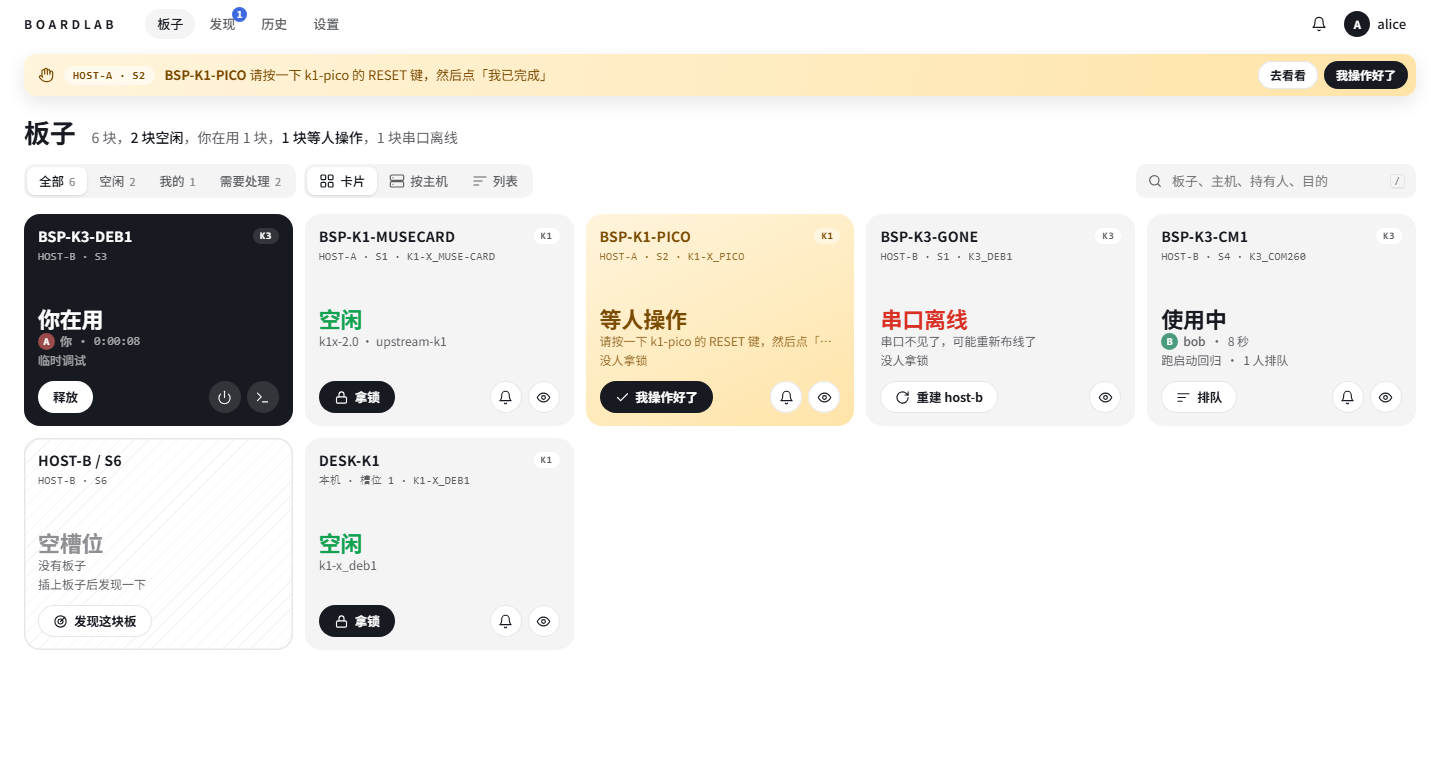
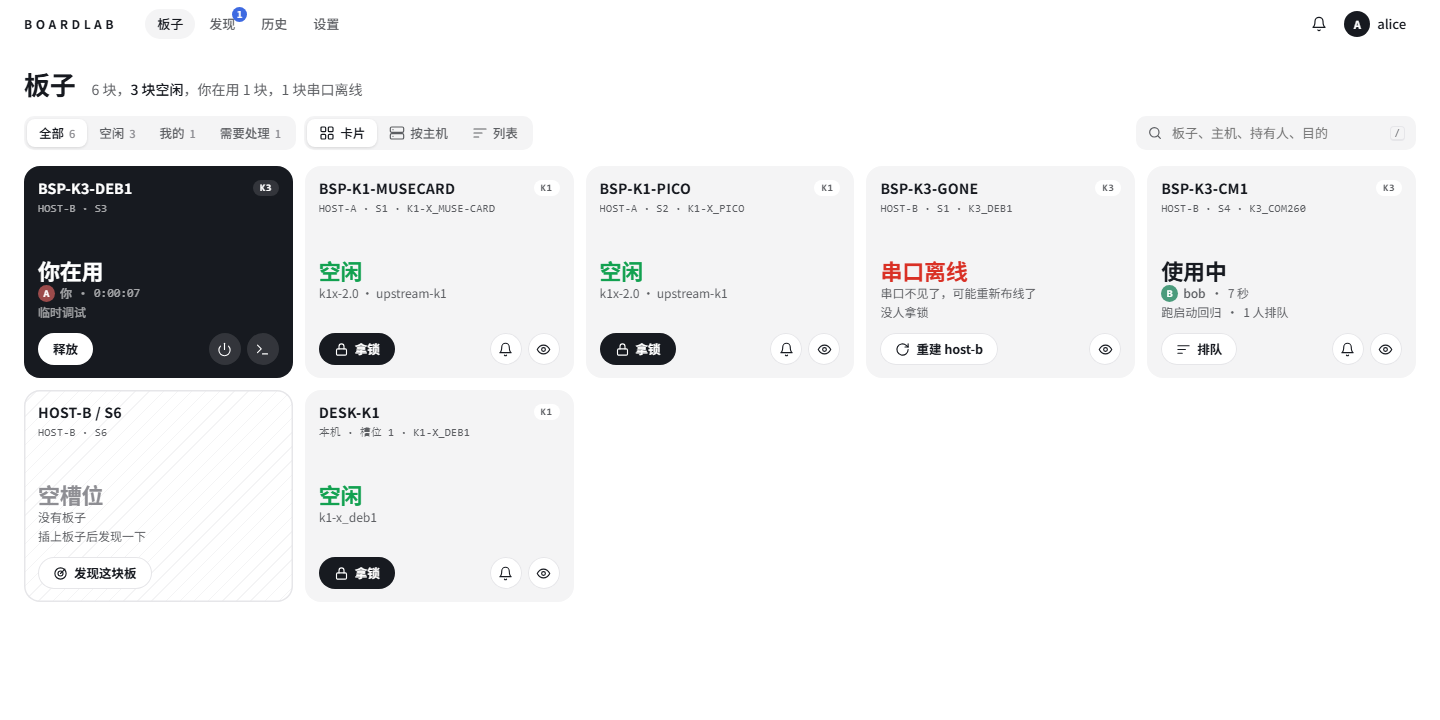
docs: reset and power control, and a lab of wired boards in the README
Name the relay backends boardlab drives (GPIO relay boards on bsp hosts,
Home Assistant switches, your own scripts) and say that asking a person
is only for a bench board with no reset line yet.

diff --git a/README.md b/README.md
@@ -52,12 +52,23 @@ flowchart LR
 ## Features
 
 - Board locks with a first-come queue, shared by people and agents.
+- Resets, download mode and power through relays, wired once per slot (see [Reset and power control](#reset-and-power-control)).
 - The same commands for every board, wherever it is: `reset`, `fastboot`, `console`, `send`, `log`, and `boot` (load FSBL, U-Boot and a kernel into RAM).
 - Slots: name a board by where it sits (`host1/s3`), and swap boards without registering them again.
 - A web page with boards, consoles, history and settings, and an HTTP API for other programs. Three frontends ship: Modern (the default), Ant Design and TroyMitchellDefault. Settings picks the one this boardd serves.
 - Serial logs over any time range: search by text or regex, download in the browser, or copy a `wget` command.
 - Browser notifications into the operating system: a board you watch is free, your turn in the queue came, a board needs a person.
 - A central boardd you can reach from any machine, over ssh or through a reverse proxy.
+
+## Reset and power control
+
+Every slot names how its board is reset and put into download mode, and boardlab drives it with no one at the bench:
+
+- **GPIO relay boards** on bsp board hosts, switching each board's reset and boot buttons. bsp's control backends are pluggable, so other controllers can be added.
+- **Home Assistant** switches and smart plugs.
+- **Your own scripts**, for any relay, PDU or USB-controlled hub you can drive from a command.
+
+A board on a bench with no reset line wired yet, for a quick debugging session, still works: boardlab asks a person to press RESET, shows where the board is, and carries on once they confirm.
 
 ## Quick start
 
